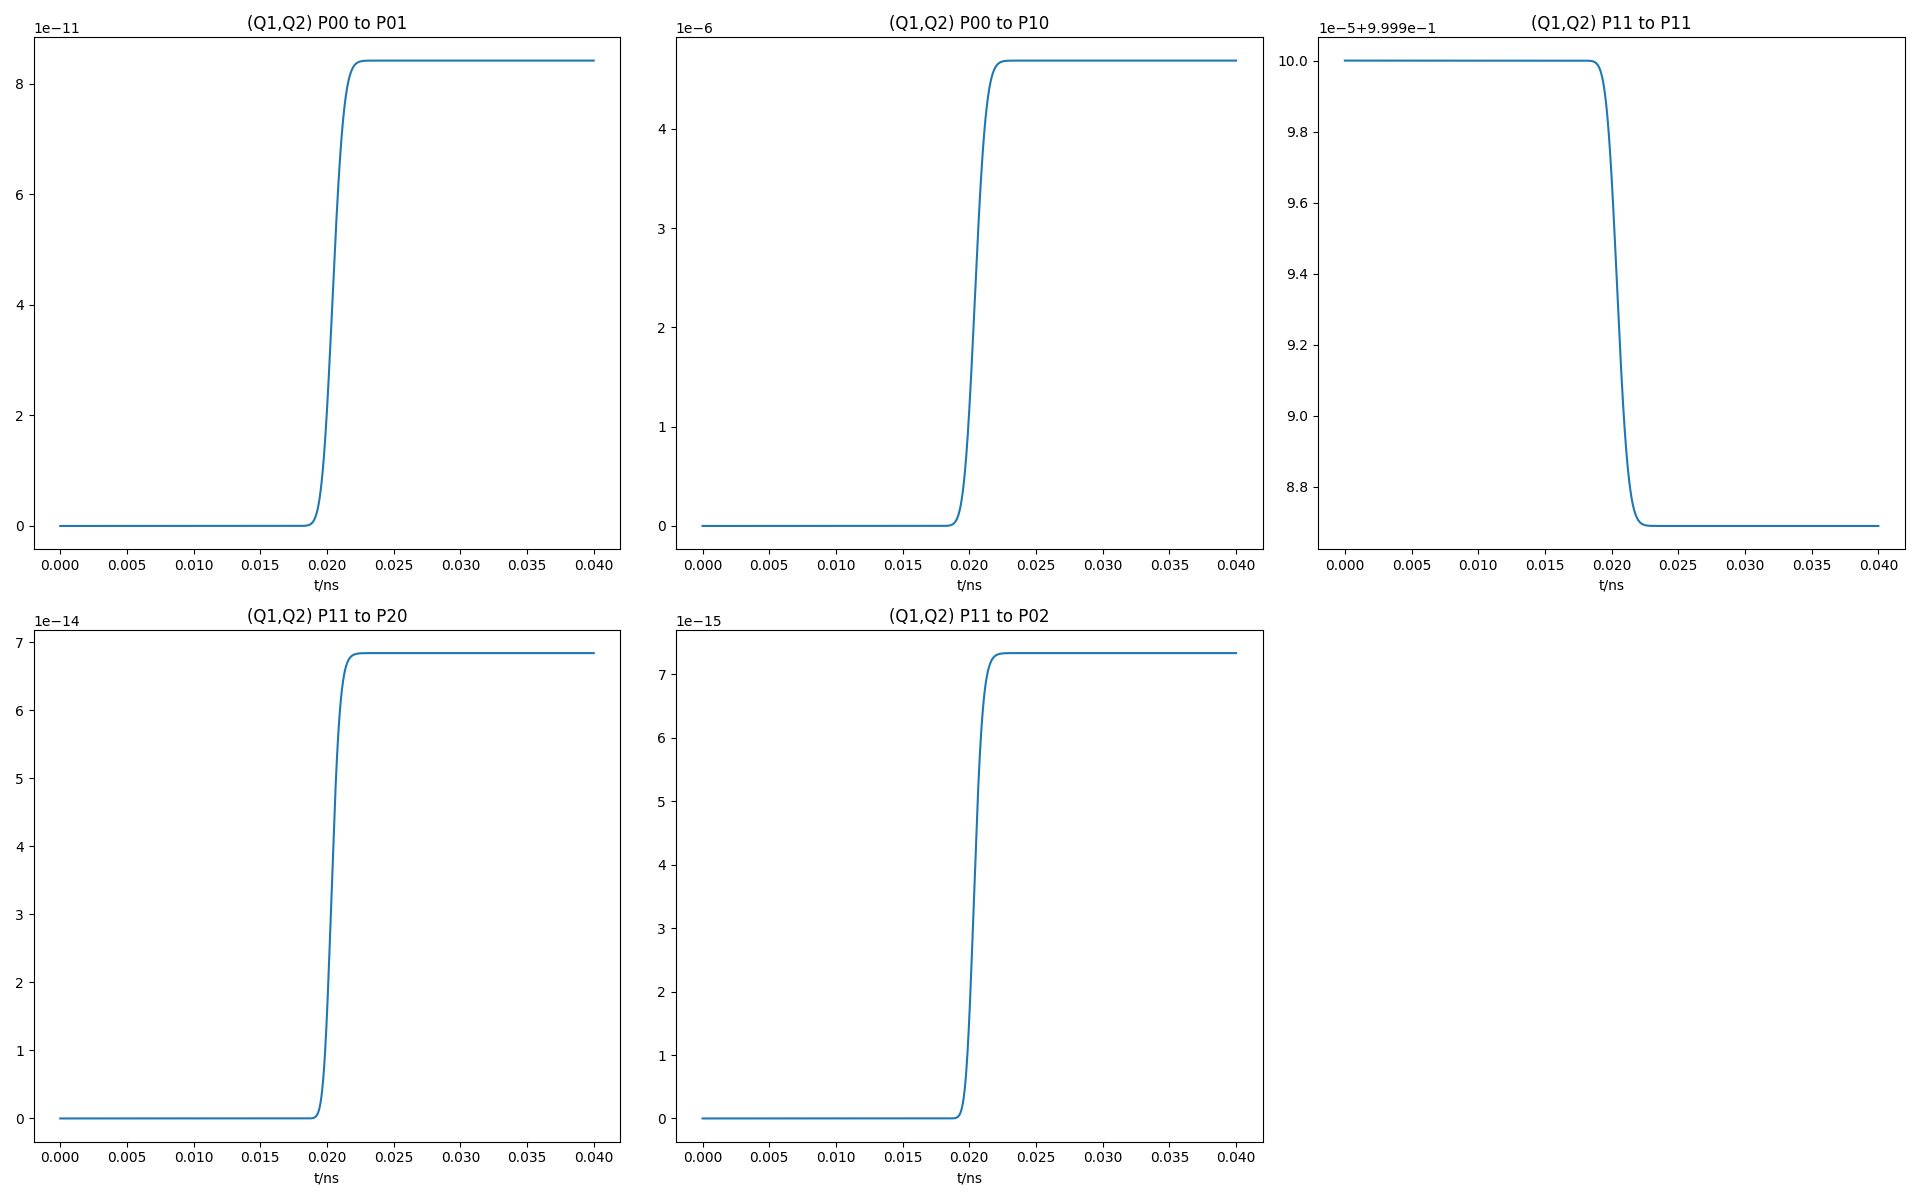
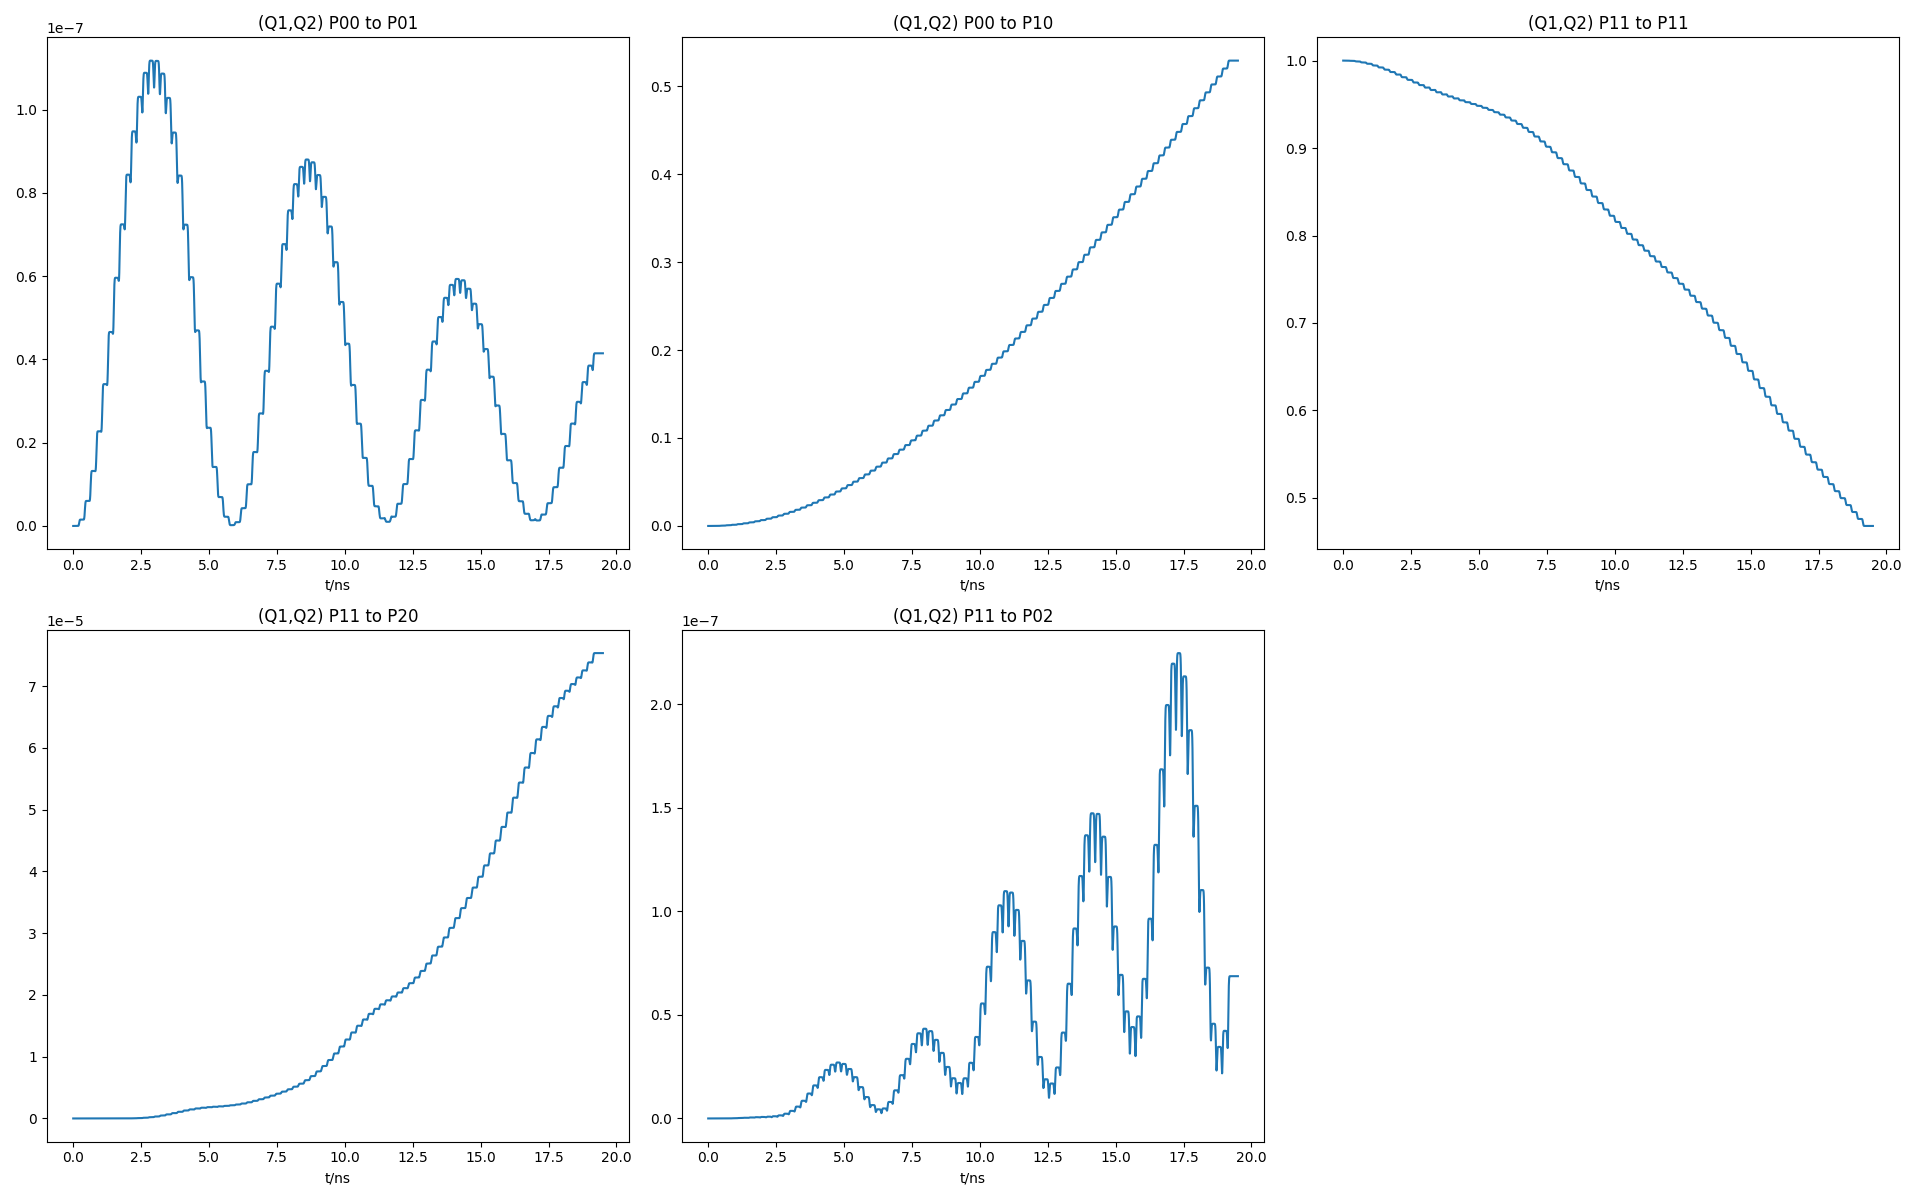
1.0

diff --git a/X2PQ1_idleQ2_SFQ.py b/X2PQ1_idleQ2_SFQ.py
@@ -73,8 +73,8 @@ circuit.M_x_3 = 1E-12
 # picture_filename: Filename of picture to be drawed.
 # npy_filename: Filename of subspace quantum gate.
 circuit.t_start = 0
-circuit.t_end = 40E-12
-circuit.t_piece = 0.01E-12
+circuit.t_end = 19.5E-9
+circuit.t_piece = 2E-12
 circuit.operator_order_num = 4
 circuit.trigonometric_function_expand_order_num = 8
 circuit.exponent_function_expand_order_num = 15
@@ -83,11 +83,15 @@ circuit.npy_filename = "X2PQ1_idleQ2_SFQ.npy"
 circuit.initial()
 # ====================================================================
 # 2.Setting signals.
-Amplitude = 0.05
-t_center = 20E-12
-t_width = 0.8E-12
-circuit.signal_1 = QubitSim.SFQLab.Gaussian_function_list_generator(
+Amplitude = 0.01
+# t_center = 0.2126E-9*np.array([1, 2, 3, 4, 5, 6, 7, 8, 9, 10, 11, 12, 13,
+#                               14, 15, 16, 17, 18, 19, 20, 21, 22, 23, 24, 25, 26, 27, 28, 29, 30,31,32,33,34,35,36,37])
+t_center = 0.2126E-9*np.arange(1,90,1) 
+t_width = 20E-12
+circuit.signal_1 = QubitSim.SFQLab.Gaussian_function_sequence_generator(
     circuit.t_list, Amplitude, t_center, t_width)
+# circuit.signal_1z = QubitSim.SFQLab.Gaussian_function_sequence_generator(
+#         circuit.t_list, Amplitude, t_center, t_width)
 plt.figure()
 plt.plot(circuit.t_list*1E9, circuit.signal_1)
 plt.title("signal_1")
@@ -126,4 +130,4 @@ print("phi=%.4f" % phi)
 print("nx=%.4f" % nx)
 print("ny=%.4f" % ny)
 print("nz=%.4f" % nz)
-print("mod=%.4f" % nx**2+ny**2+nz**2)
+print("mod=%.4f" % (nx**2+ny**2+nz**2))

diff --git a/QubitSim/SFQLab.py b/QubitSim/SFQLab.py
@@ -12,6 +12,15 @@ def Gaussian_function_list_generator(x_list, a, b, c):
 
     Returns:
         _type_: _description_
-    """    
+    """
     Gaussian_function_list = a*np.exp(-(x_list-b)*(x_list-b)/2/c**2)
     return Gaussian_function_list
+
+
+def Gaussian_function_sequence_generator(x_list, a, b_list, c):
+    Gaussian_function_sequence_list = np.zeros(len(x_list))
+    for i in range(len(x_list)):
+        for j in range(len(b_list)):
+            Gaussian_function_sequence_list[i] = Gaussian_function_sequence_list[i]+a*np.exp(-(
+                x_list[i]-b_list[j])*(x_list[i]-b_list[j])/2/c**2)
+    return Gaussian_function_sequence_list
